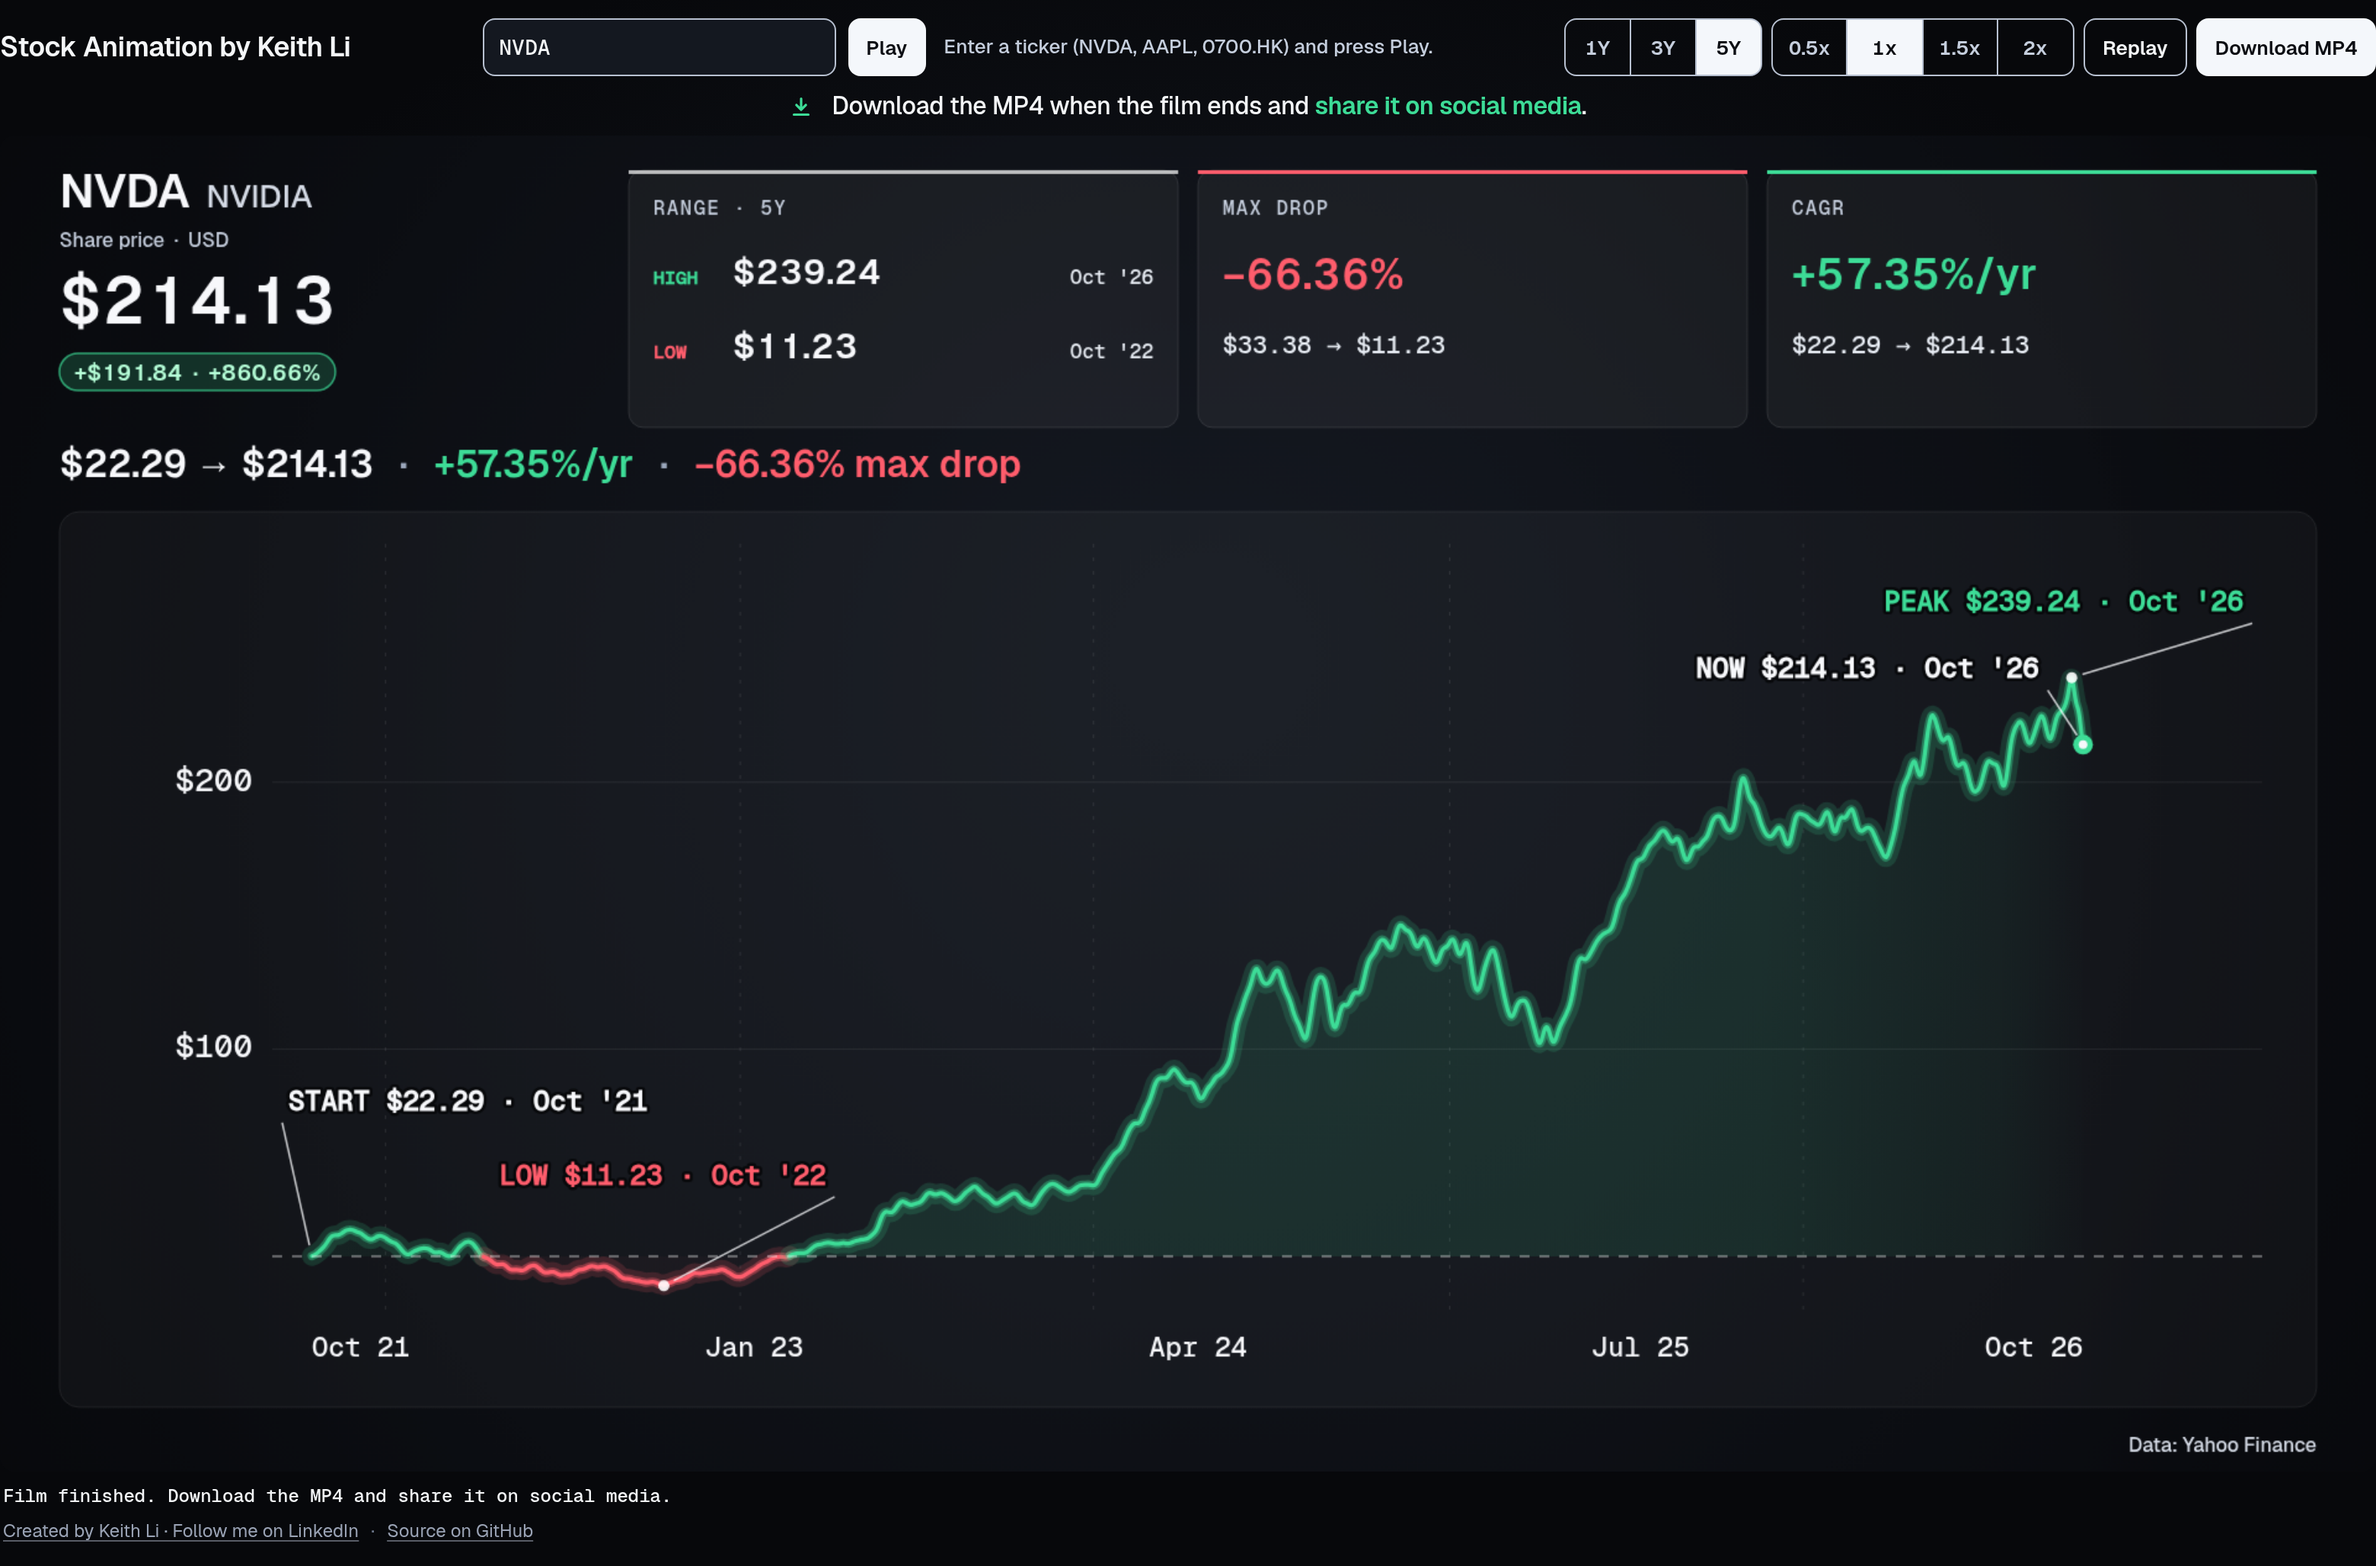
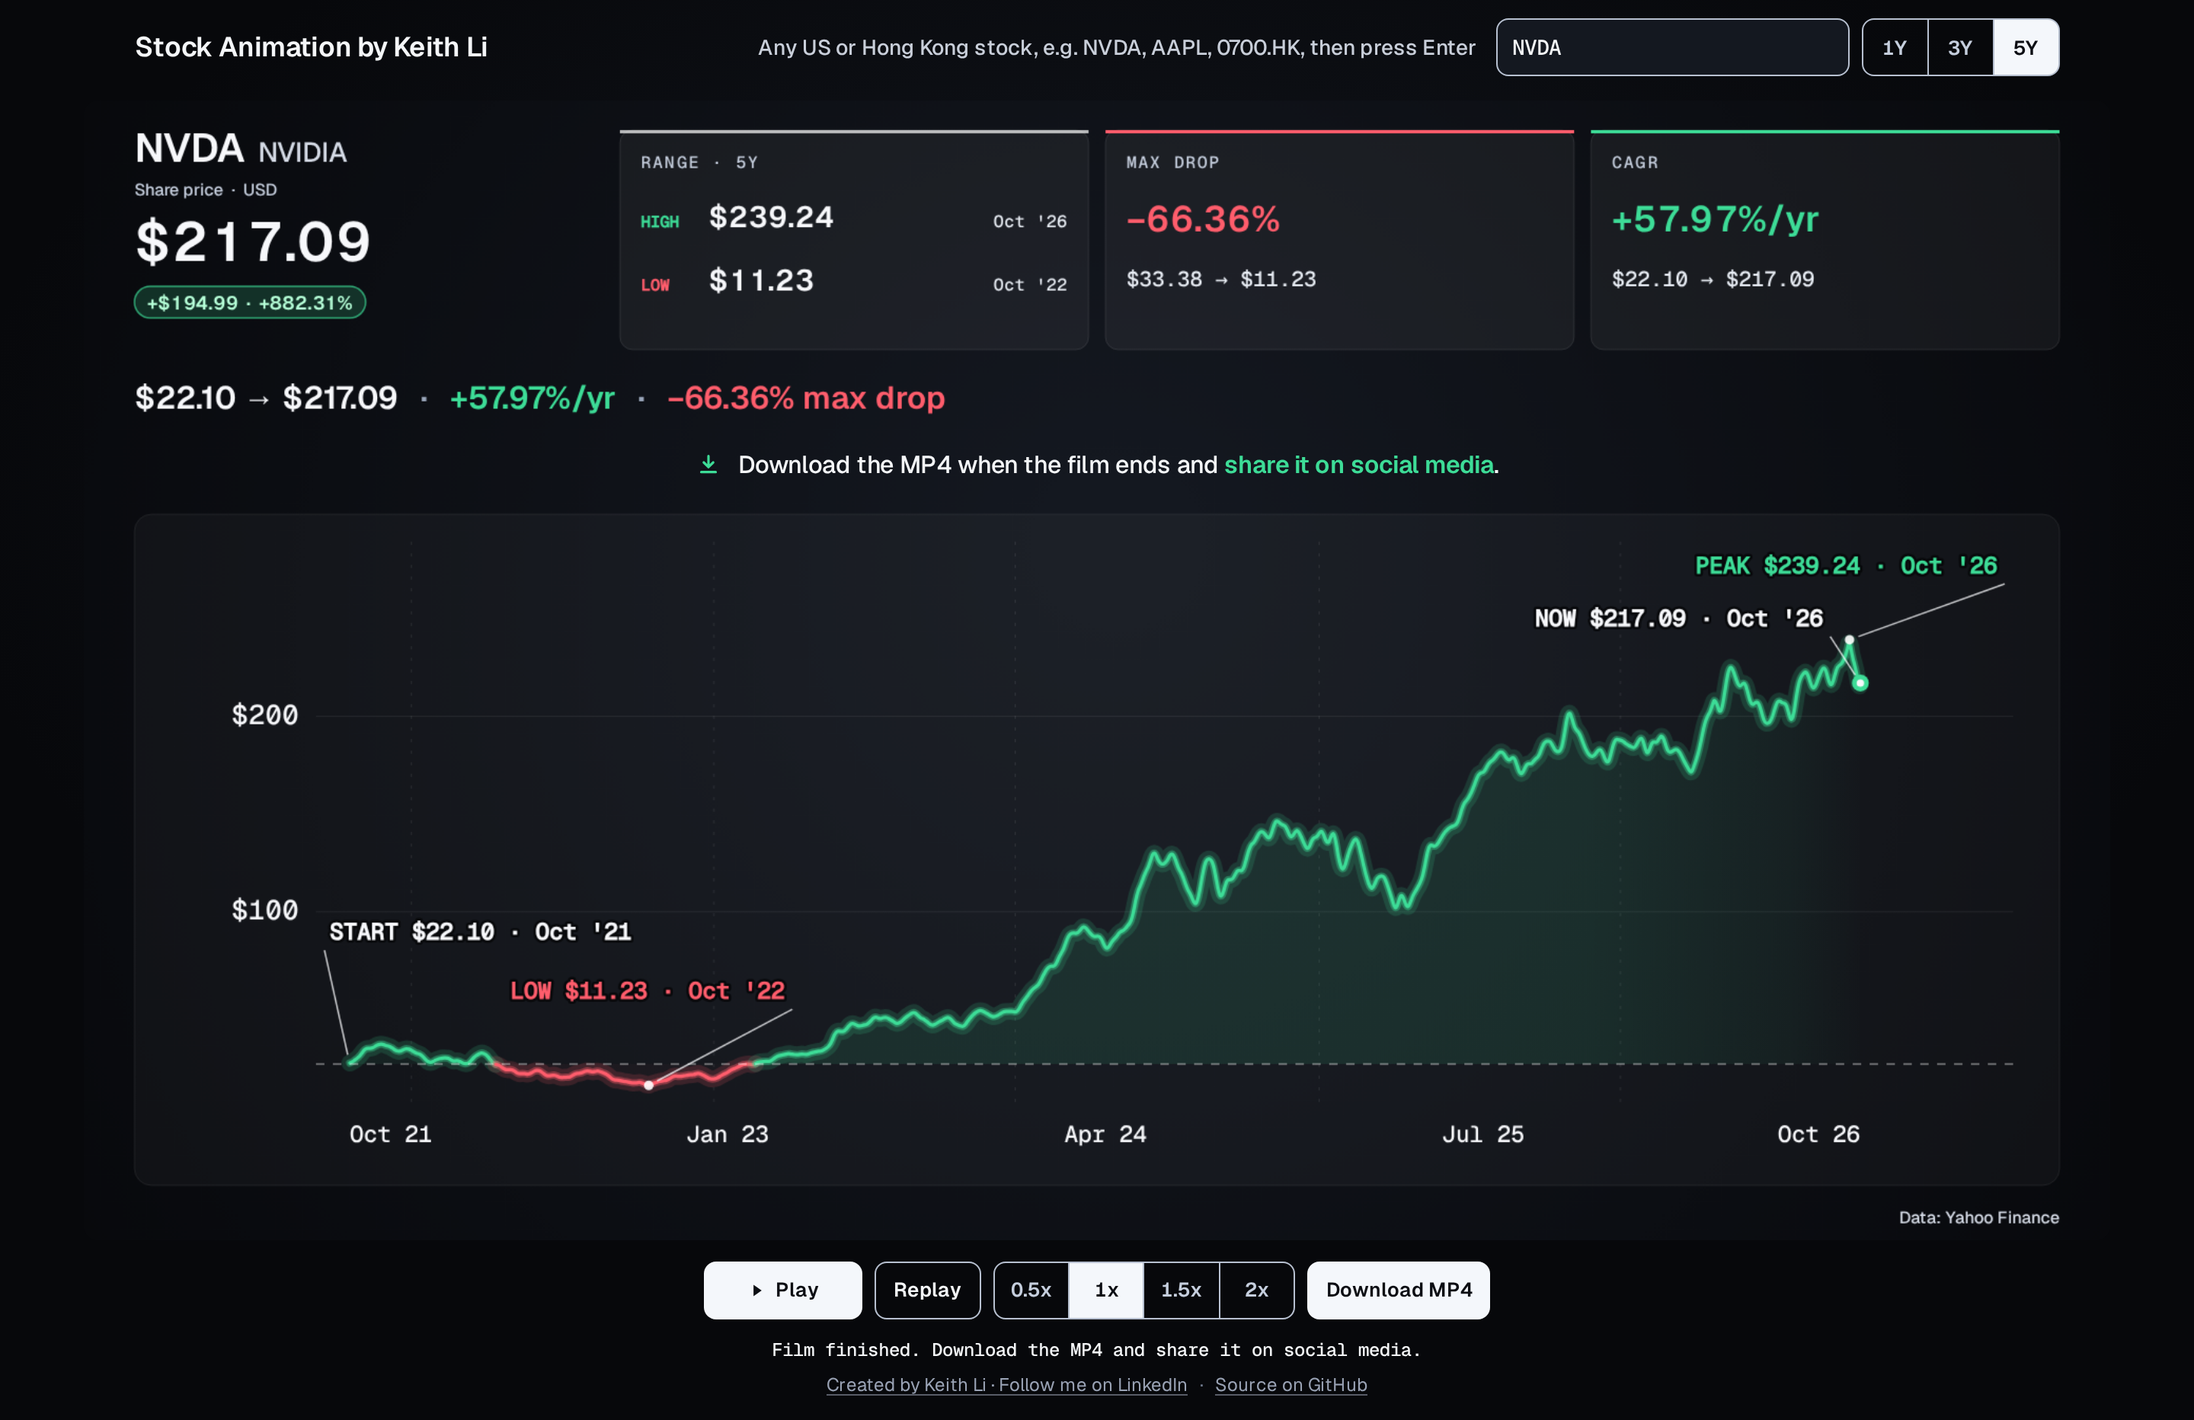
Refresh the film screenshot and add a Traditional Chinese README.

diff --git a/README.zh-Hant.md b/README.zh-Hant.md
@@ -1,0 +1,52 @@
+# Stock Animation by Keith Li
+
+[English](README.md) · 繁體中文
+
+揀一隻股票，就能得到一段 30 秒的股價短片，即刻可以分享。
+
+Stock Animation 把一隻股票的每日收市價變成一段動畫走勢圖。線條由你所選時段的第一個收市價開始，一路畫到最新收市價，在關鍵時刻放慢，最後用一句話總結整段走勢。你可以先在瀏覽器觀看，再下載成 MP4，分享到社交媒體。
+
+**[立即製作短片](https://stock-animation.keith-li.workers.dev)**。免費，毋須註冊，打開網頁時會先播放 NVDA，讓你先睇睇效果。
+
+![NVDA 完整短片：五年收市價走勢，標示起點、最高位及最低位，三張摘要卡片，以及結尾總結](docs/film.png)
+
+## 製作短片
+
+1. 在頂部輸入股票代號，按 Enter。美股直接輸入代號（`NVDA`、`AAPL`、`BRK.B`）。港股輸入 `.HK` 代號（`0700.HK`），只輸入數字如 `700` 亦會當作港股處理。
+2. 選擇時段：**1Y**、**3Y** 或 **5Y**，預設為五年。
+3. 觀看短片。播放及暫停按鈕在短片下方，旁邊是重播及速度選項（**0.5x**、**1x**、**1.5x**、**2x**）。
+4. 播放完畢後，按 **Download MP4** 下載，隨意分享。
+
+播放速度只影響觀看，下載的檔案永遠是完整 30 秒、1920×1080，不論你揀咗咩速度。
+
+## 短片內容
+
+短片由時段內第一個收市價開始，線條即時開始畫。線條推進時，會標示起點、最高收市價及最低收市價，各附價格及日期。當股價經過重要時刻，例如下跌 20% 或以上、其後的回升，或者單日最大升幅及跌幅，短片會標示出來，並在最急劇的一刻放慢，讓你看清楚。
+
+三張卡片全程顯示：時段內的最高及最低價、由高位到其後低位的最大跌幅，以及由第一個收市價到最新收市價的年均增長率（CAGR）。最後三秒，一句話總結整個故事：由哪裏開始、現在在哪裏、每年增長多快，以及期間最大的跌幅。
+
+## 須知
+
+- **股價來源。** 所有數字來自 [Yahoo Finance](https://finance.yahoo.com/) 的每日收市價，已按拆股調整，短片角落亦註明資料來自 Yahoo。股息沒有計算在內，所以短片顯示的是股價本身，並非總回報。
+- **數據有多新。** 短片以該市場時區（香港或紐約）最近一個已完成的交易日作結。
+- **支援市場。** 暫時只支援美股及港股。
+- **下載。** 影片由你的瀏覽器在你自己的電腦上製作，不會上傳任何東西。新版 Chrome、Edge 及 Safari 會儲存為 MP4，不支援 MP4 的瀏覽器則會儲存為 WebM。
+- **人人都快。** 每隻股票的價格會存放在共用快取，第二個人查同一隻股票時即時就有，下次收市後才會再向 Yahoo 取數。
+- **並非投資建議。** 短片只顯示股價過去的表現，並不建議買入或賣出任何股票。
+
+## 自行運行
+
+Stock Animation 以 [MIT 授權](LICENSE)開源。要運行自己的版本，需要 Node.js 22：
+
+```bash
+git clone https://github.com/keithligh/stock-animation.git
+cd stock-animation
+npm install
+npm run dev
+```
+
+然後打開 [localhost:5173](http://localhost:5173)。如果你在此基礎上開發，請保留版權聲明並註明原作。
+
+## 作者
+
+Stock Animation 由 Keith Li 製作。歡迎在 [LinkedIn](https://www.linkedin.com/in/keithlihk) 及 [GitHub](https://github.com/keithligh) 找到他。

diff --git a/README.md b/README.md
@@ -1,5 +1,7 @@
 # Stock Animation by Keith Li
 
+English · [繁體中文](README.zh-Hant.md)
+
 Pick a stock and get a 30-second film of its price, ready to post.
 
 Stock Animation turns one share's daily closing prices into a short animated chart. The line draws itself from the first close in your range to the latest one, stops on the moments that mattered, and ends with a single sentence that sums up the whole run. You can watch it in the browser, then download it as an MP4 and share it on social media.
